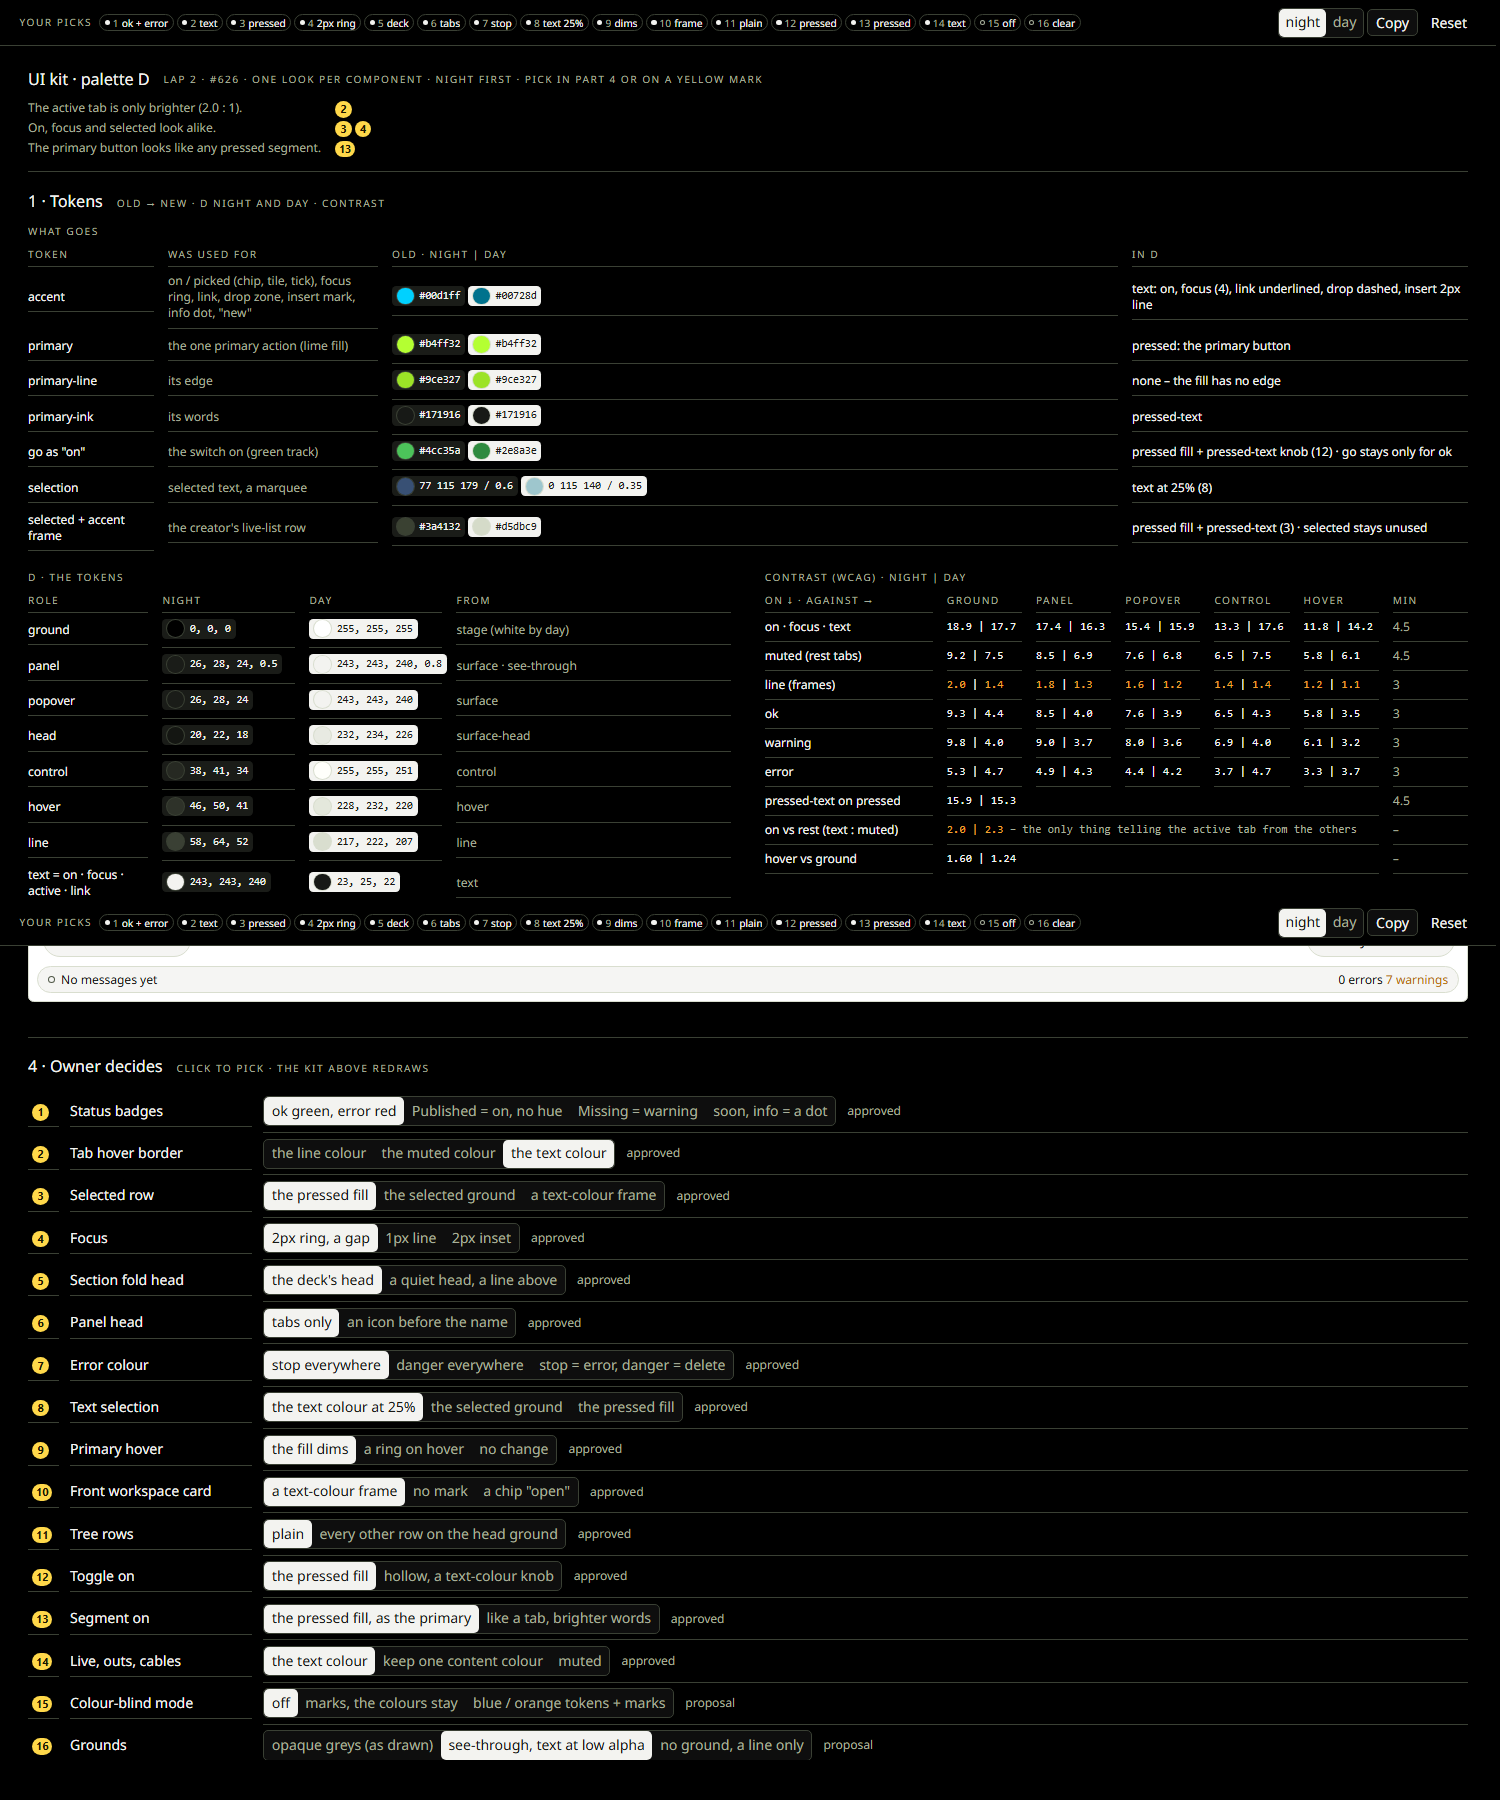
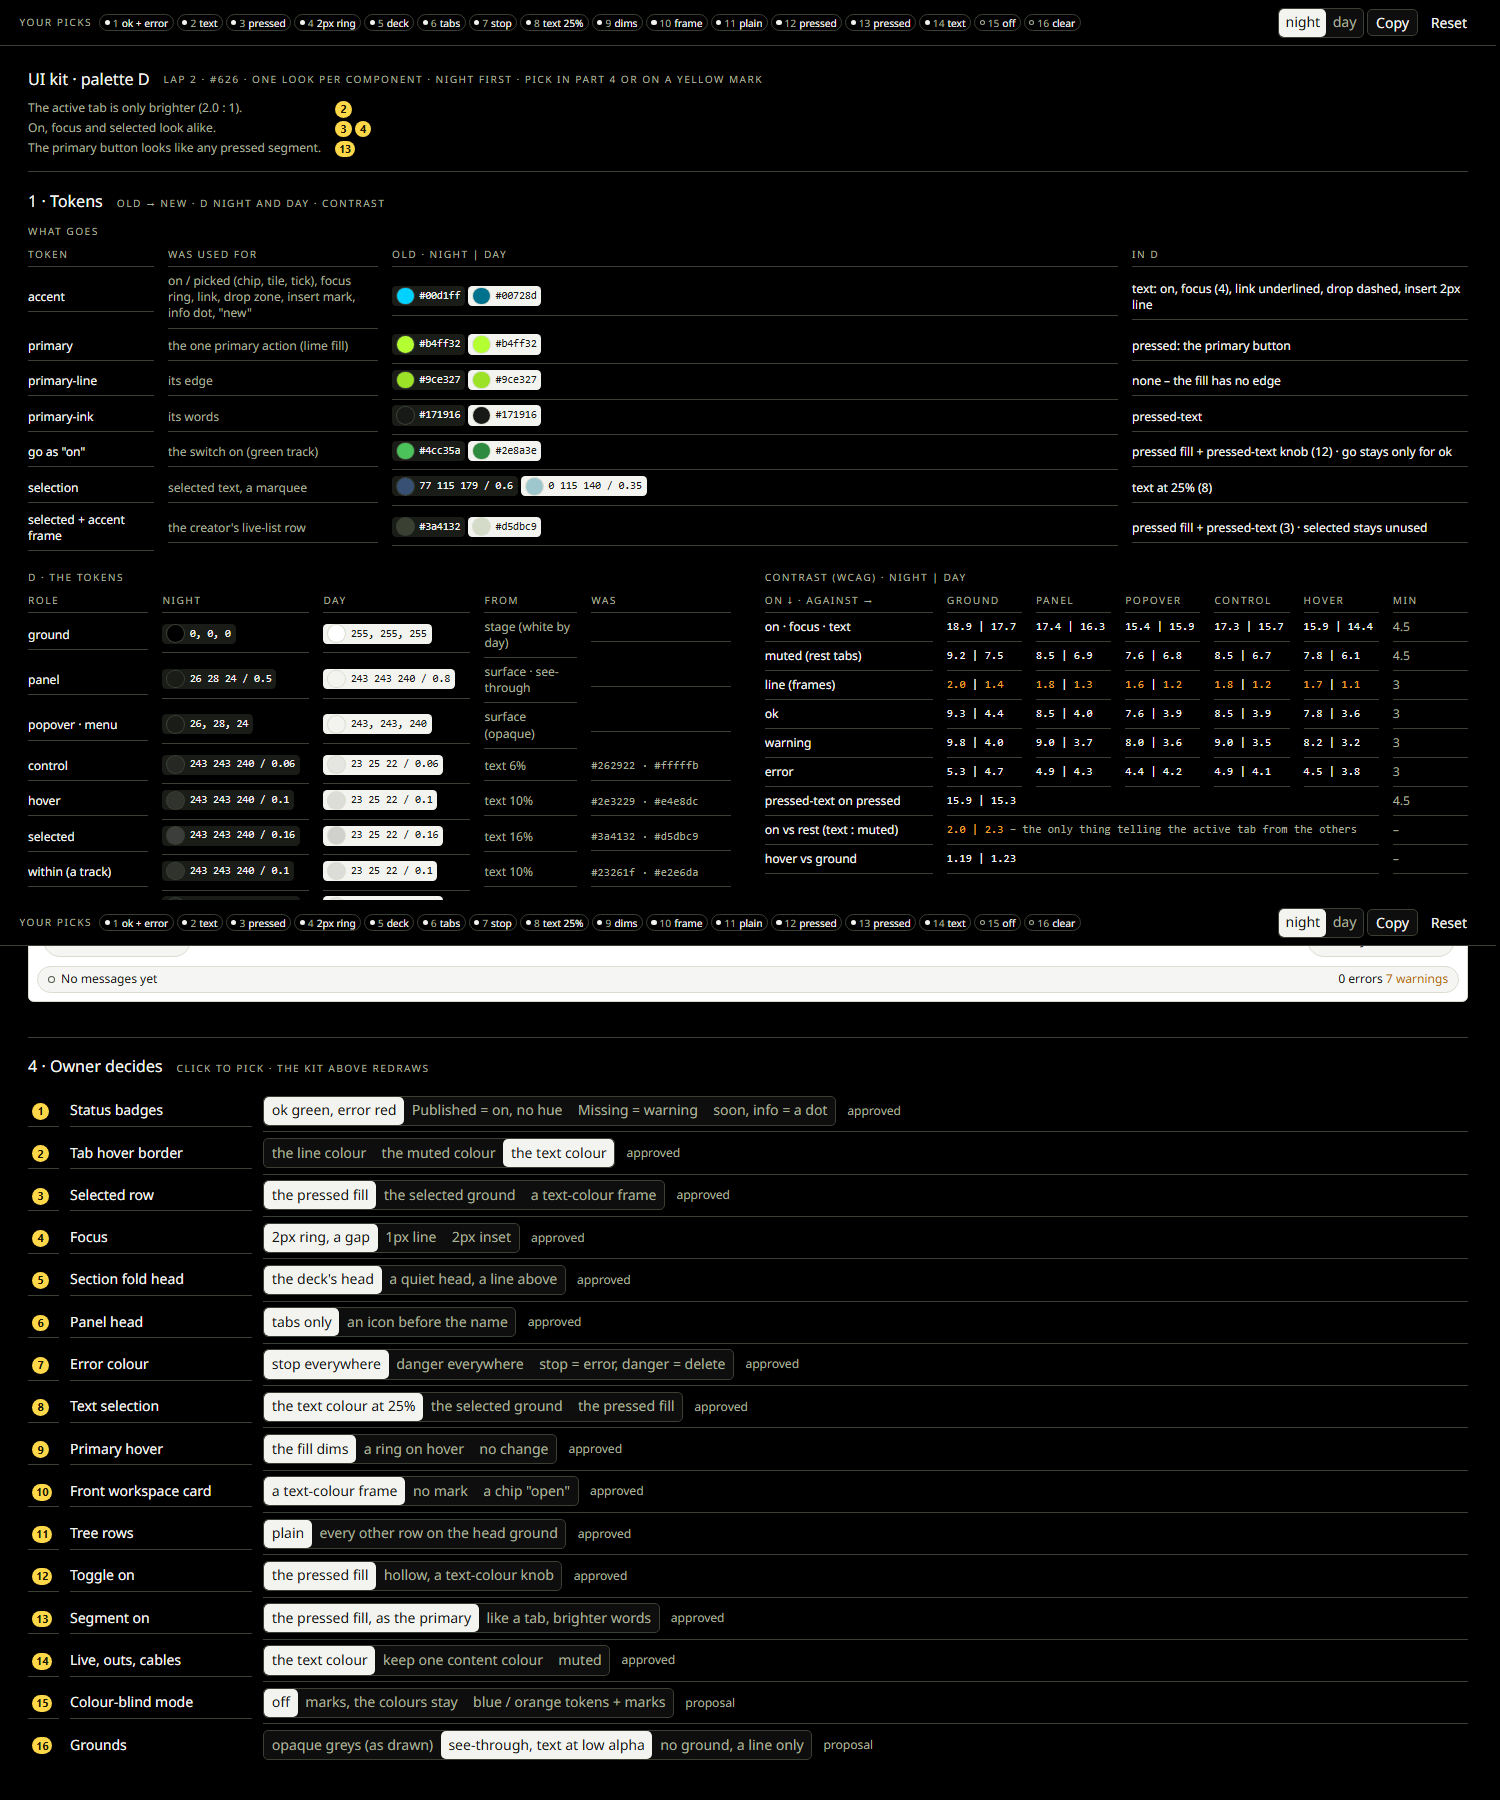
Lap 2 kit D: the token table redone – the see-through grounds (text at 6/10/16/10/5 %) are the tokens, the opaque greys in a 'was' column; ok / warning / error normal and colour-blind with mark and contrast in the same table. Refs #626

diff --git a/agents/research/redesign/lap2/kit-d.html b/agents/research/redesign/lap2/kit-d.html
@@ -283,7 +283,7 @@ html[data-p16="c"] :is(.fld.h,.tg.h,.kc.h,.th.h .pv){border-color:var(--tool-tex
 .tbl>div{padding:.42rem 0;border-bottom:1px solid var(--tool-line);min-width:0}
 .tbl .hd{padding:.3rem 0}
 .oldnew{grid-template-columns:9rem 15rem 1fr 24rem}
-.dtok{grid-template-columns:8.6rem 9.5rem 9.5rem 1fr}
+.dtok{grid-template-columns:8.6rem 10.5rem 10.5rem 1fr 10rem}
 .cr{grid-template-columns:12rem repeat(5,1fr) 1fr}
 .sw{display:inline-flex;align-items:center;gap:.4rem;padding:.12rem .35rem;border-radius:.3rem;background:var(--editor-surface);color:var(--editor-text)}
 .chipsw{flex:none;width:1.2rem;height:1.2rem;border-radius:50%;box-shadow:0 0 0 1px var(--editor-line)}
@@ -501,20 +501,22 @@ const OLDNEW = [
 document.getElementById('oldnew').innerHTML = `<div class="hd label">token</div><div class="hd label">was used for</div><div class="hd label">old · night | day</div><div class="hd label">in D</div>` +
   OLDNEW.map(([t, w, s, n]) => `<div>${t}</div><div class="muted">${w}</div><div>${s}</div><div>${n}</div>`).join('');
 
-/* D's tokens: [role, source, the CSS var to read] */
+/* D's tokens: [role, source, the CSS var to read]. The grounds are see-through (point 16 B, owner 2026-11-24): the text colour at a low alpha. */
 const DTOK = [
-  ['ground', 'stage (white by day)', '--tool-ground'], ['panel', 'surface · see-through', '--tool-panel'], ['popover', 'surface', '--tool-popover'],
-  ['head', 'surface-head', '--tool-head'], ['control', 'control', '--tool-control'], ['hover', 'hover', '--tool-hover'], ['line', 'line', '--tool-line'],
+  ['ground', 'stage (white by day)', '--tool-ground'], ['panel', 'surface · see-through', '--tool-panel'], ['popover · menu', 'surface (opaque)', '--tool-popover'],
+  ['control', `text ${A16.control}%`, '--tool-control'], ['hover', `text ${A16.hover}%`, '--tool-hover'], ['selected', `text ${A16.selected}%`, '--tool-selected'],
+  ['within (a track)', `text ${A16.within}%`, '--tool-within'], ['head (fold)', `text ${A16.head}%`, '--tool-head'], ['line', 'line', '--tool-line'],
   ['text = on · focus · active · link', 'text', '--tool-text'], ['muted', 'muted', '--tool-muted'],
   ['primary · selected row · toggle on', 'pressed', '--tool-pressed'], ['their ink', 'pressed-text', '--tool-pressed-text'],
-  ['on ground', 'text 12%', '--d-on-ground'], ['selection', 'text 25%', '--d-selection'], ['within (a track)', 'within', '--tool-within'],
-  ['ok', 'go', '--tool-go'], ['warning', 'warn', '--tool-warn'], ['error', 'stop', '--tool-stop'], ['destroy', 'danger', '--tool-danger'],
+  ['on ground', 'text 12%', '--d-on-ground'], ['selection', 'text 25%', '--d-selection'], ['destroy', 'danger', '--tool-danger'],
 ];
 /* a resolved colour, through a probe's computed `color` (resolves var() and color-mix) */
 const col = (el, v) => { const t = document.createElement('span'); el.appendChild(t); t.style.color = `var(${v})`; const c = getComputedStyle(t).color; t.remove(); return c; };
 const PNv = probe('night'), PDv = probe('day');
-document.getElementById('dtok').innerHTML = `<div class="hd label">role</div><div class="hd label">night</div><div class="hd label">day</div><div class="hd label">from</div>` +
-  DTOK.map(([r, f, v]) => `<div>${r}</div><div>${sw(col(PNv, v), 'night')}</div><div>${sw(col(PDv, v), 'day')}</div><div class="muted">${f}</div>`).join('');
+/* the opaque greys they replace ("was"), read before the page root switches part 1 to B */
+const toHex = c => '#' + c.match(/[\d.]+/g).slice(0, 3).map(x => (+x).toString(16).padStart(2, '0')).join('');
+const WAS = Object.fromEntries(['--tool-control', '--tool-hover', '--tool-selected', '--tool-within', '--tool-head'].map(v => [v, [toHex(col(PNv, v)), toHex(col(PDv, v))]]));
+document.documentElement.dataset.p16 = 'b';   /* part 1 shows the see-through grounds; apply() sets the pick afterwards */
 
 /* contrast: parse rgb()/rgba()/color(srgb …), composite see-through over the ground */
 const parse = s => {
@@ -537,7 +539,17 @@ for (const [n, v, min] of FGS) crHtml += `<div>${n}</div>${GROUNDS.map(([, g]) =
 /* the pressed fill's ink, and how far "on" (text) stands from "rest" (muted) and the hover ground from the ground */
 const pr = el => ratio(parse(col(el, '--tool-pressed-text')), parse(col(el, '--tool-pressed')));
 const tm = el => ratio(parse(col(el, '--tool-text')), parse(col(el, '--tool-muted')));
-const hg = el => ratio(parse(col(el, '--tool-hover')), parse(col(el, '--tool-ground')));
+const hg = el => ratio(over(parse(col(el, '--tool-hover')), parse(col(el, '--tool-ground'))), parse(col(el, '--tool-ground')));
+/* the D token table: the roles, then ok / warning / error, normal and colour-blind, with mark and contrast */
+const rgbA = c => { const p = parse(c); return p[3] < 1 ? `${p.slice(0, 3).map(Math.round).join(' ')} / ${(+p[3].toFixed(2))}` : null; };
+const swA = (c, th) => { const a = rgbA(c); return a ? `<span class="sw" data-theme="${th}"><span class="chipsw" style="background:${c}"></span><span class="hex">${a}</span></span>` : sw(c, th); };
+const STATES = [['ok', '✓', '--tool-go', '--cb-ok', 'go'], ['warning', '!', '--tool-warn', '--cb-warn', 'warn'], ['error', '✕', '--tool-stop', '--cb-err', 'stop']];
+const crGP = (v) => `${crCell(PNv, v, '--tool-ground', 3)} · ${crCell(PNv, v, '--tool-panel', 3)} | ${crCell(PDv, v, '--tool-ground', 3)} · ${crCell(PDv, v, '--tool-panel', 3)}`;
+document.getElementById('dtok').innerHTML = `<div class="hd label">role</div><div class="hd label">night</div><div class="hd label">day</div><div class="hd label">from</div><div class="hd label">was</div>` +
+  DTOK.map(([r, f, v]) => `<div>${r}</div><div>${swA(col(PNv, v), 'night')}</div><div>${swA(col(PDv, v), 'day')}</div><div class="muted">${f}</div><div class="mono muted">${WAS[v] ? WAS[v].join(' · ') : ''}</div>`).join('') +
+  `<div class="hd label" style="padding-top:1rem">state · mark</div><div class="hd label" style="padding-top:1rem">night</div><div class="hd label" style="padding-top:1rem">day</div><div class="hd label" style="padding-top:1rem;grid-column:span 2">contrast ground · panel, night | day</div>` +
+  STATES.map(([r, m, v, cb, f]) => `<div>${r} <b>${m}</b></div><div>${sw(col(PNv, v), 'night')}</div><div>${sw(col(PDv, v), 'day')}</div><div class="mono" style="grid-column:span 2">${crGP(v)} <span class="muted">· ${f}</span></div>
+    <div class="muted">${r} <b>${m}</b> · colour-blind</div><div>${sw(col(PNv, cb), 'night')}</div><div>${sw(col(PDv, cb), 'day')}</div><div class="mono" style="grid-column:span 2">${crGP(cb)} <span class="muted">· Okabe–Ito</span></div>`).join('');
 crHtml += `<div>pressed-text on pressed</div><div class="mono" style="grid-column:span 5">${pr(PNv).toFixed(1)} | ${pr(PDv).toFixed(1)}</div><div class="muted">4.5</div>`;
 crHtml += `<div>on vs rest (text : muted)</div><div class="mono" style="grid-column:span 5"><span class="lo">${tm(PNv).toFixed(1)} | ${tm(PDv).toFixed(1)}</span> <span class="muted">– the only thing telling the active tab from the others</span></div><div class="muted">–</div>`;
 crHtml += `<div>hover vs ground</div><div class="mono" style="grid-column:span 5">${hg(PNv).toFixed(2)} | ${hg(PDv).toFixed(2)}</div><div class="muted">–</div>`;
@@ -670,11 +682,11 @@ document.getElementById('comp-day').innerHTML = composition('day');
 /* ══ 1 · grounds (point 16): the tokens each option changes, and every state over the stage and over a panel ══ */
 const pairOf = v => `${sw(col(PNv, v), 'night')} ${sw(col(PDv, v), 'day')}`;
 const GTOK = [
-  ['control', pairOf('--tool-control'), `text ${A16.control}%`, 'none, a line'],
-  ['hover', pairOf('--tool-hover'), `text ${A16.hover}%`, 'none, the line → text'],
-  ['selected', pairOf('--tool-selected'), `text ${A16.selected}%`, 'none'],
-  ['within (track)', pairOf('--tool-within'), `text ${A16.within}%`, 'none, a line'],
-  ['head (fold)', pairOf('--tool-head'), `text ${A16.head}%`, 'none'],
+  ['control', WAS['--tool-control'].join(' · '), `text ${A16.control}%`, 'none, a line'],
+  ['hover', WAS['--tool-hover'].join(' · '), `text ${A16.hover}%`, 'none, the line → text'],
+  ['selected', WAS['--tool-selected'].join(' · '), `text ${A16.selected}%`, 'none'],
+  ['within (track)', WAS['--tool-within'].join(' · '), `text ${A16.within}%`, 'none, a line'],
+  ['head (fold)', WAS['--tool-head'].join(' · '), `text ${A16.head}%`, 'none'],
   ['primary hover · press', 'the fill dims 85% · 70%', 'full fill + 1px text ring', 'as B'],
   ['popover · menu', pairOf('--tool-popover'), 'stays opaque', 'stays opaque'],
 ];
@@ -693,10 +705,7 @@ document.getElementById('gspec-day').innerHTML = gspec('day');
 /* ══ 1 · colour-blind tokens (point 15 c): contrast, lightness, and a simulation (Machado, Oliveira & Fernandes 2009, severity 1, linear RGB) ══ */
 const CB = [['ok', '--cb-ok', '--tool-go'], ['warning', '--cb-warn', '--tool-warn'], ['error', '--cb-err', '--tool-stop']];
 const crs = (el, v) => ['--tool-ground', '--tool-panel', '--tool-popover'].map(g => crCell(el, v, g, 3)).join(' · ');
-document.getElementById('cbtok').innerHTML = `<div class="hd label">role</div><div class="hd label">night</div><div class="hd label">day</div><div class="hd label">contrast: ground · panel · menu (min 3) · lightness L</div>` +
-  CB.map(([r, v]) => `<div>${r}</div><div>${sw(col(PNv, v), 'night')}</div><div>${sw(col(PDv, v), 'day')}</div>
-    <div class="mono">${crs(PNv, v)} | ${crs(PDv, v)} · L ${lum(parse(col(PNv, v))).toFixed(2)} | ${lum(parse(col(PDv, v))).toFixed(2)}</div>`).join('') +
-  `<div style="grid-column:1/-1" class="small muted">Okabe–Ito. Day: yellow is 1.2 : 1 on white, so the warning is the orange darkened to 3.8 : 1 and the error the vermillion darkened – the three differ in lightness too. With the mode on, every ok / warning / error also gets ✓ ! ✕ (WCAG 1.4.1).</div>`;
+document.getElementById('cbtok').innerHTML = `<div class="small muted" style="grid-column:1/-1">The values and contrasts are in the token table above. Okabe–Ito: ok blue, warning yellow / orange, error vermillion. By day yellow is 1.2 : 1 on white, so the warning is the orange darkened to 3.8 : 1 and the error the vermillion darkened – the three differ in lightness too. With the mode on, every ok / warning / error also carries ✓ ! ✕ (WCAG 1.4.1).</div>`;
 const MACHADO = {
   deuteranopia: [[0.367322, 0.860646, -0.227968], [0.280085, 0.672501, 0.047413], [-0.011820, 0.042940, 0.968881]],
   protanopia: [[0.152286, 1.052583, -0.204868], [0.114503, 0.786281, 0.099216], [-0.003882, -0.048116, 1.051998]],
